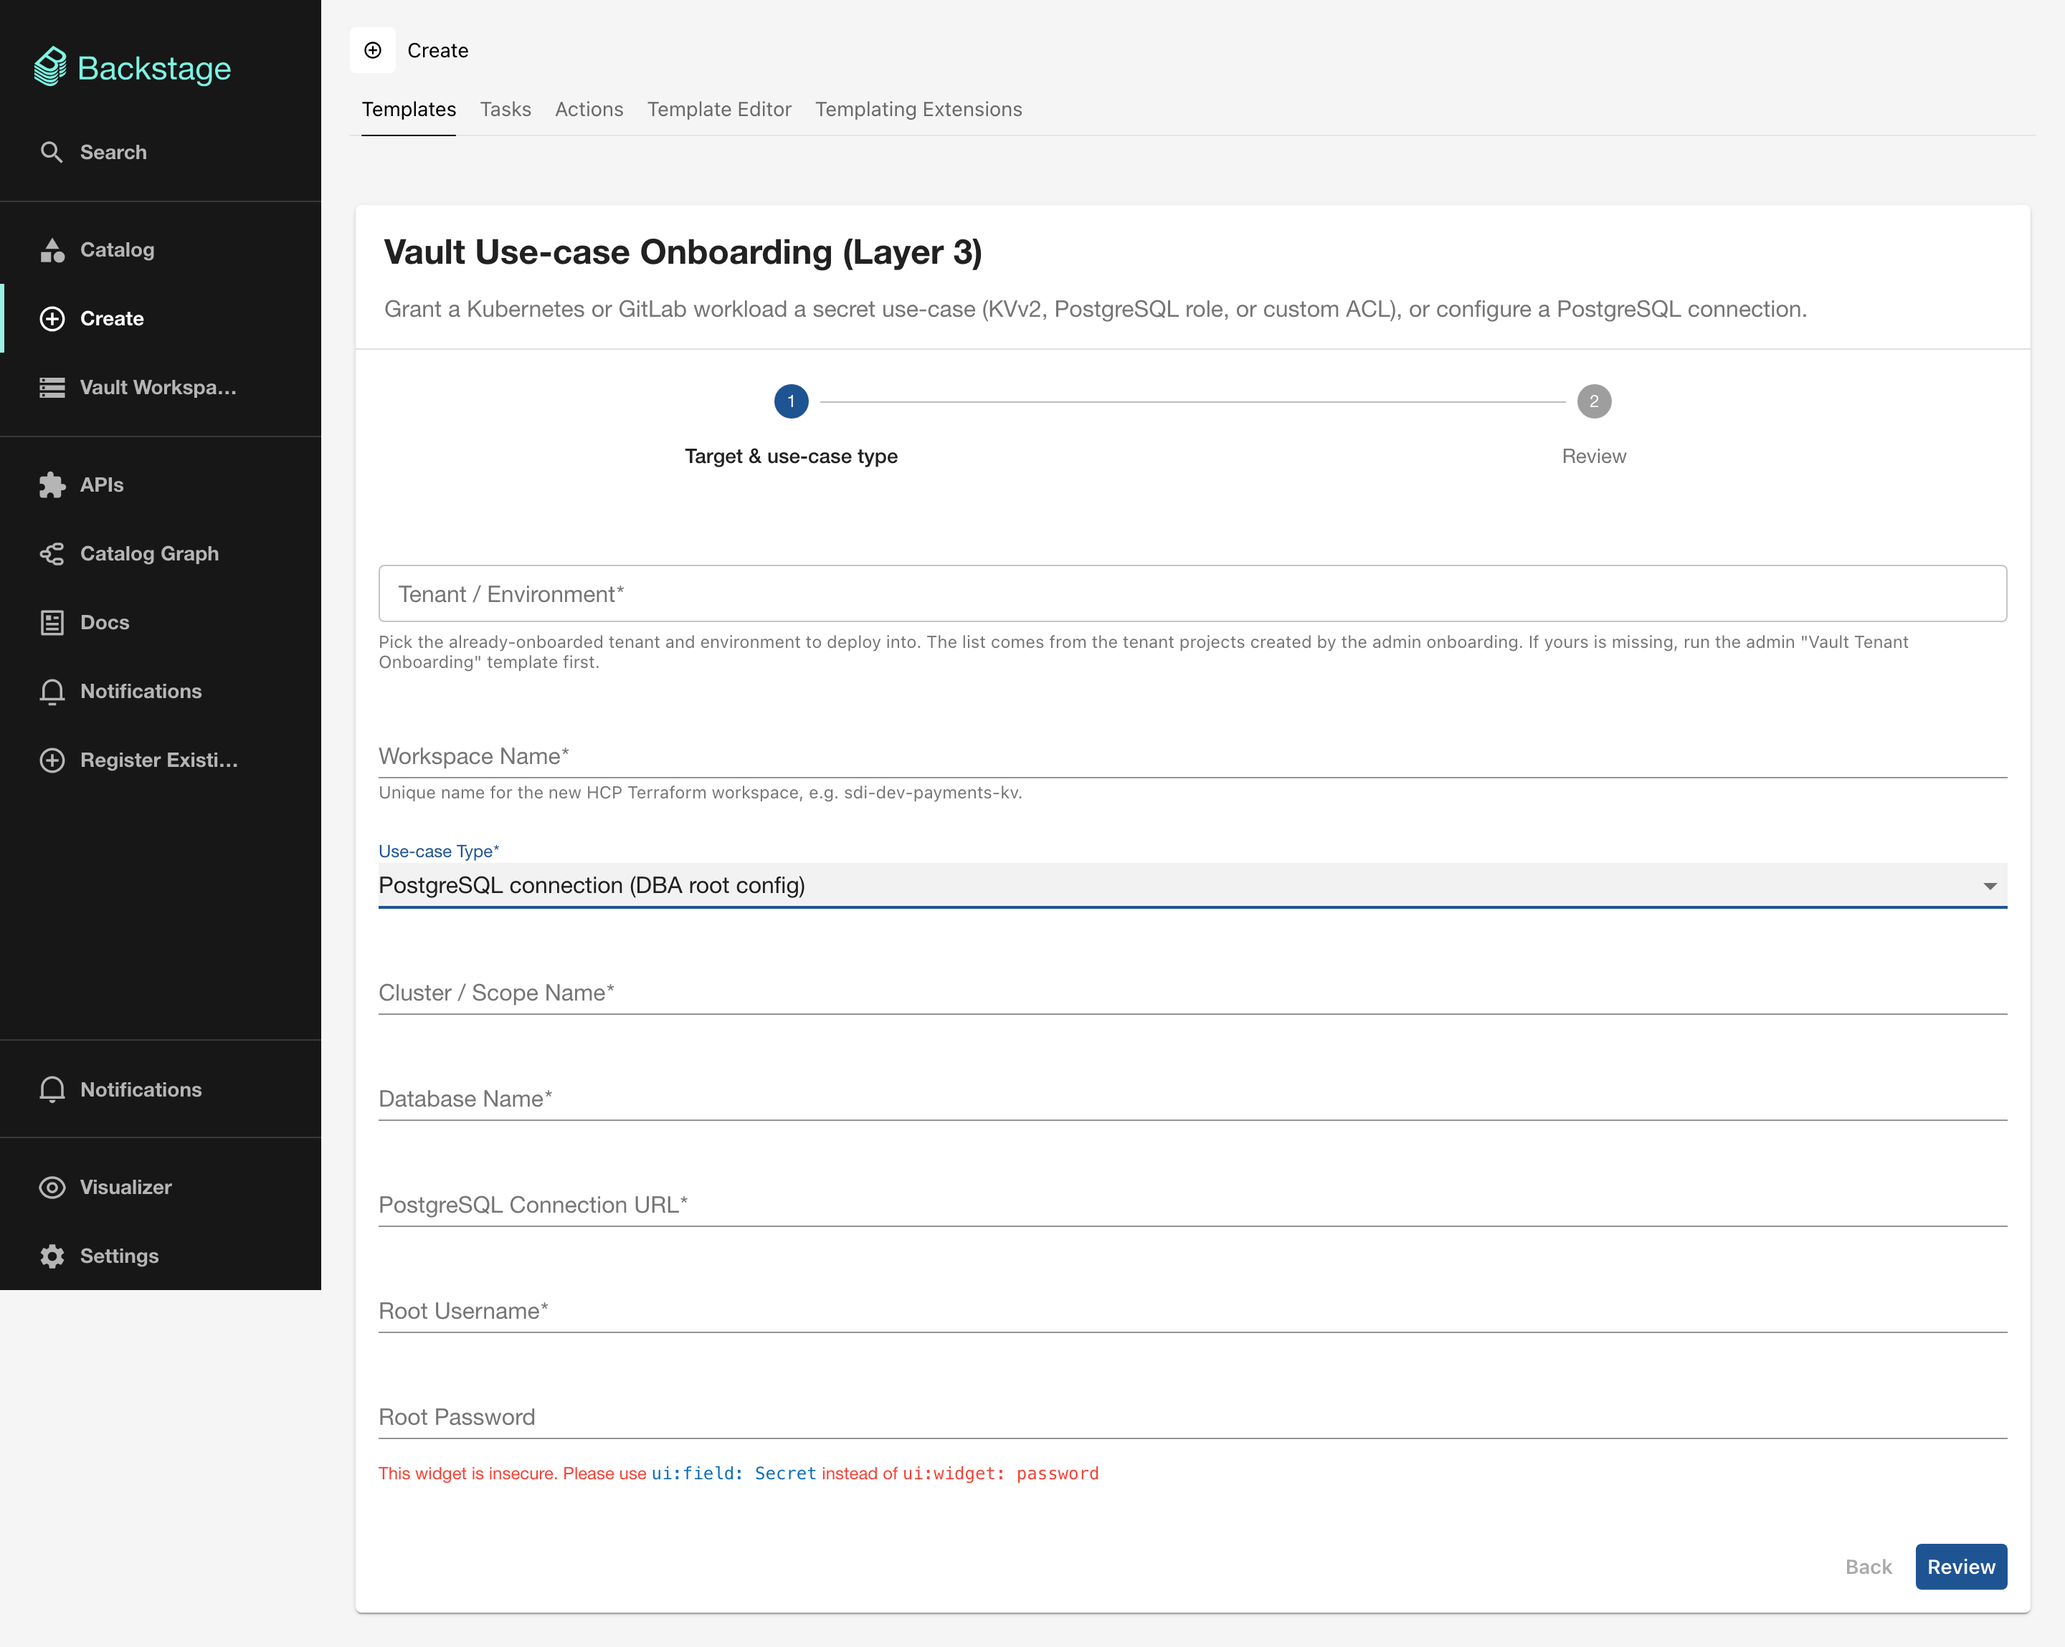
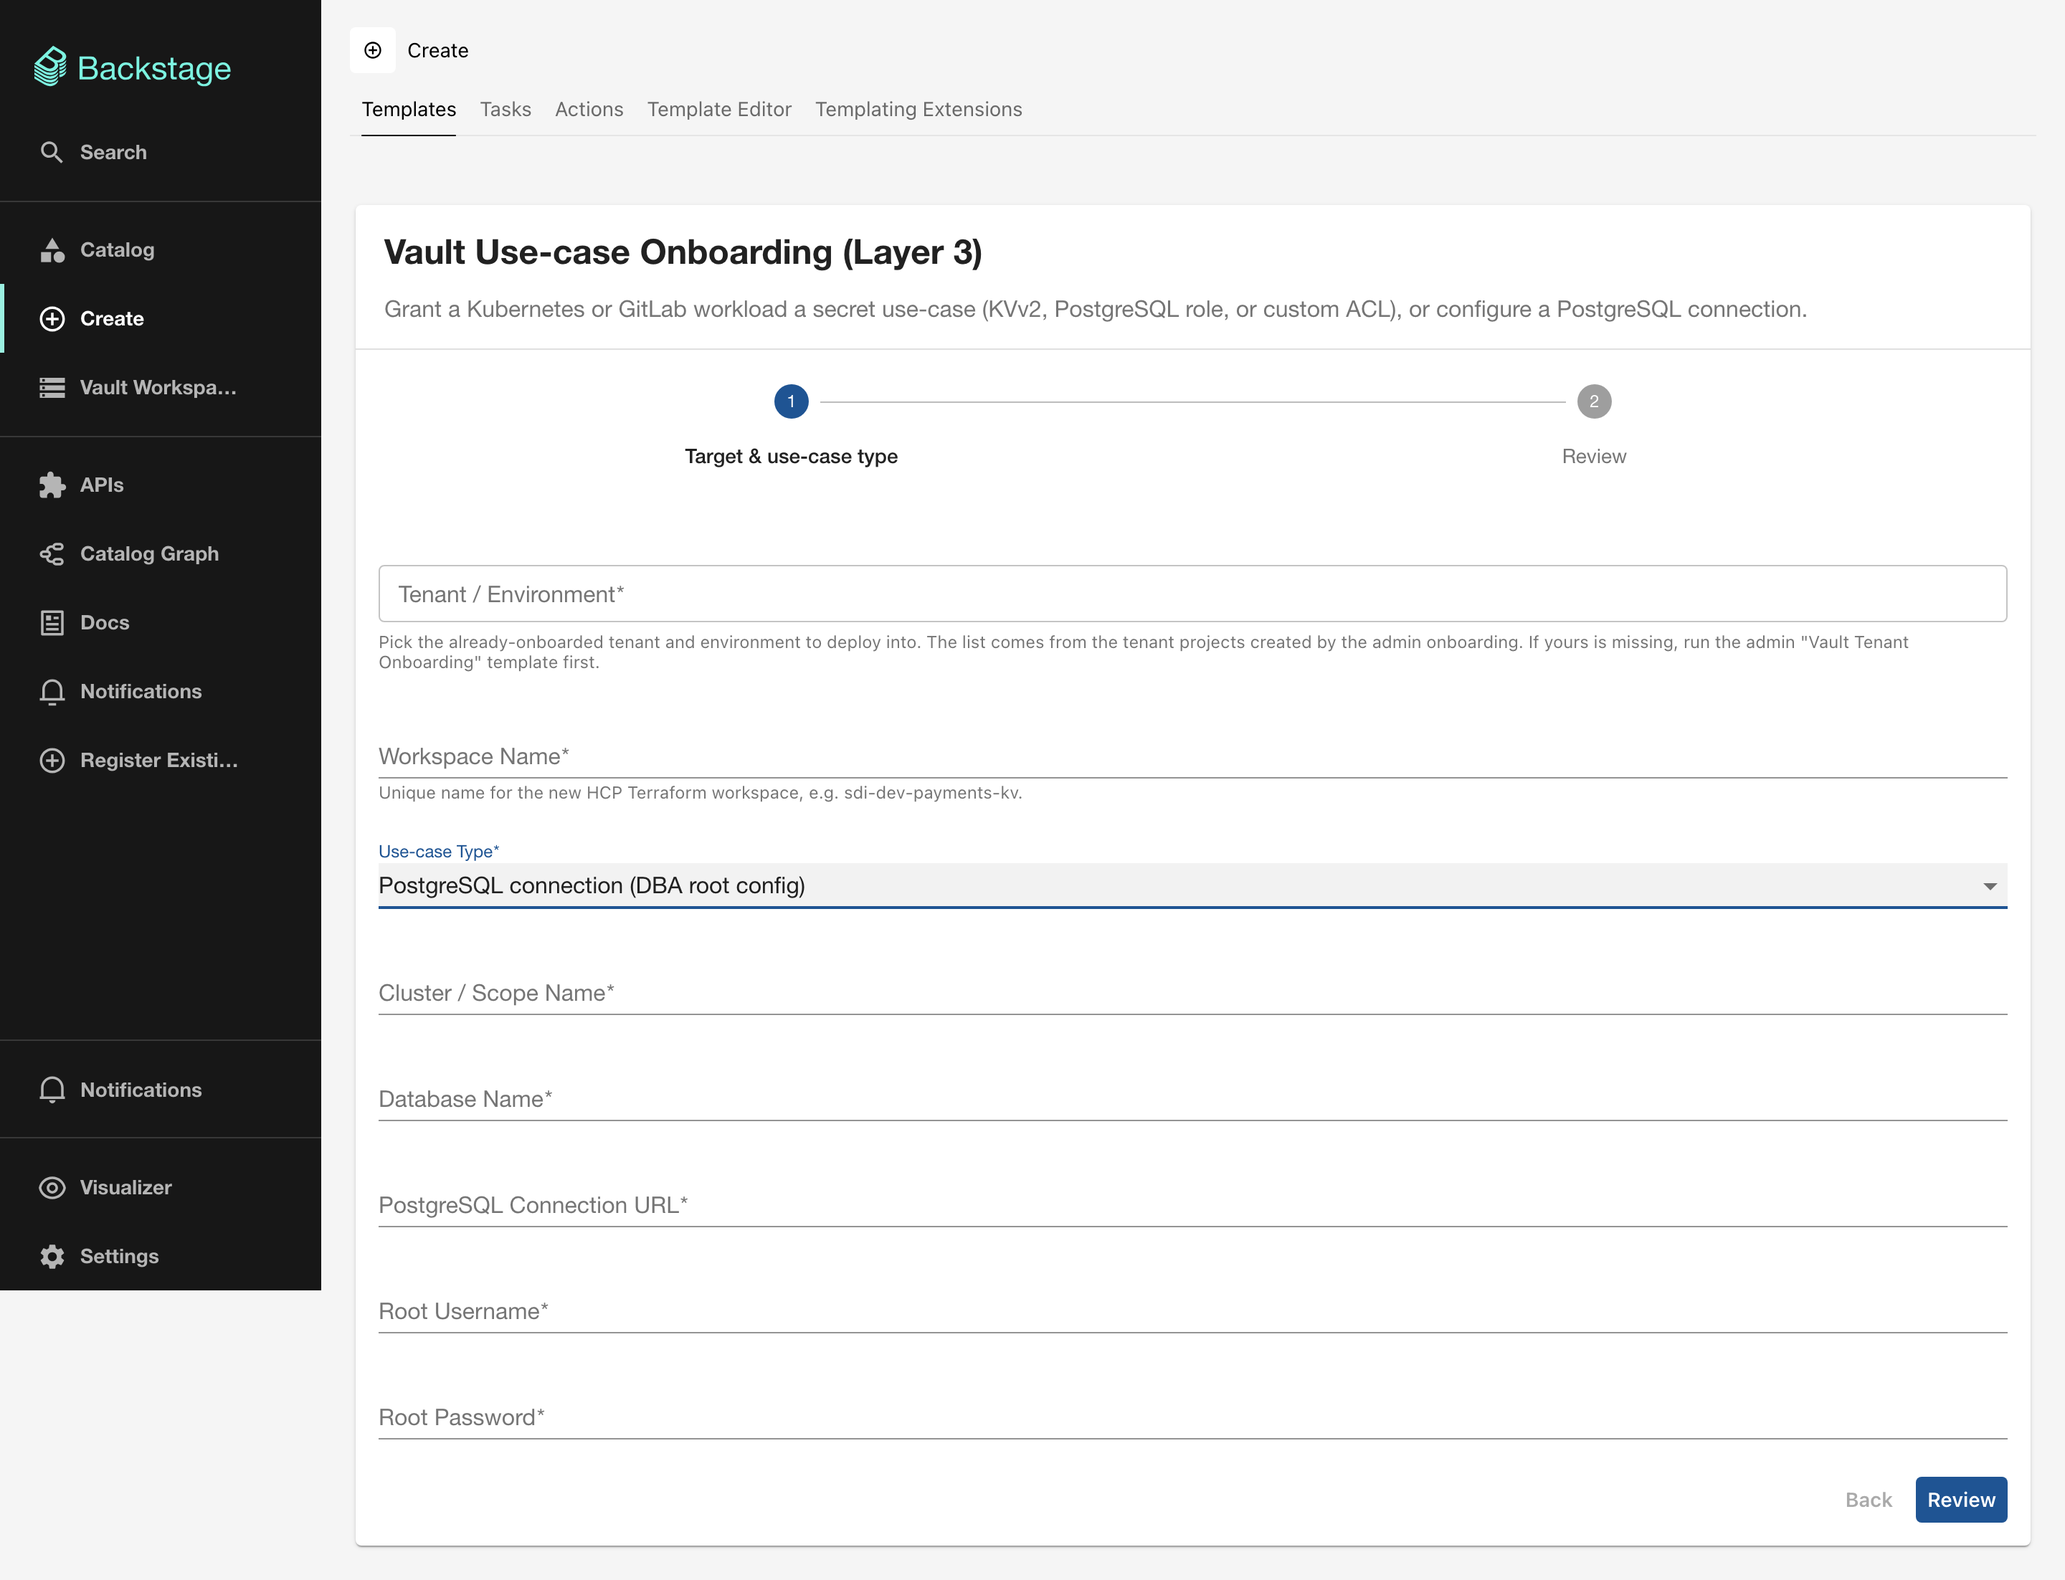
fix: review round 3 (permission-group vars, L2 scope, backfill, secrets)
- hcptf:nocode:provision accepts scalar vars. A value that is a single
  ${{ }} expression keeps its JSON type, so permission-group's capability
  checkboxes arrived as booleans and failed the z.string() input schema
  before any workspace was created. toTfVars already sends them as strings;
  covered by a new provision.test.ts.
- L2 workload template takes cluster_name / gitlab_instance_name from the
  selected parent trust's outputs instead of form fields, so the JWT mount,
  entity name and parent link can't disagree; the Kubernetes parent picker
  lists only cluster-onboarding trusts.
- Parent pickers (L2 and L3) require the output the step reads to exist, so
  never-applied workspaces are not offered.
- backfill-parent-tags: only applied parents are candidates and every link
  needs a unique match (a failed L1 retry with the same cluster_name could
  be tagged as parent before); unknown workload modules are skipped; older
  GitLab KV use-cases with a free-text scope match on a unique GitLab
  workload_name.
- PostgreSQL connection URL and root password use ui:field: Secret and are
  read from ${{ secrets.* }} (removes the insecure password-widget warning).
- Docs/AGENTS.md describe the parent-derived handoff; L2 and pgsql-connection
  screenshots recaptured; test name fixed.

diff --git a/plugins/hcp-terraform-backend/src/actions/provision.ts b/plugins/hcp-terraform-backend/src/actions/provision.ts
@@ -8,8 +8,15 @@ function needsHcl(value: string): boolean {
   );
 }
 
+/**
+ * Template values that are a single `${{ }}` expression reach the action as
+ * their JSON type (a checkbox parameter arrives as a real boolean), so vars
+ * accept scalars and are sent to HCP Terraform as strings.
+ */
+export type TfVarValue = string | number | boolean;
+
 export function toTfVars(
-  vars: Record<string, string>,
+  vars: Record<string, TfVarValue>,
   sensitive?: Record<string, boolean>,
 ): TfVar[] {
   return Object.entries(vars)
@@ -35,7 +42,7 @@ export function createProvisionAction(client: HcpTfClient) {
         tenant: z => z.string().optional().describe('Tenant name; used to resolve the {tenant}-Vault-{env} project.'),
         environment: z => z.string().optional().describe('Environment (dev/test/prod) for project resolution.'),
         projectName: z => z.string().optional().describe('Exact HCP TF project name (e.g. an admin project). Overrides tenant/env.'),
-        vars: z => z.record(z.string(), z.string()).optional().describe('Terraform variable key/value map.'),
+        vars: z => z.record(z.string(), z.union([z.string(), z.number(), z.boolean()])).optional().describe('Terraform variable key/value map (scalars are sent as strings).'),
         sensitiveVars: z => z.record(z.string(), z.boolean()).optional().describe('Keys to mark as sensitive.'),
         projectId: z => z.string().optional().describe('Explicit HCP TF project ID (overrides tenant/env resolution).'),
         parentWorkspaceName: z => z.string().optional().describe('Name of the previous-layer workspace to link this one to in the catalog graph (recorded as a parent:<name> tag).'),
@@ -101,7 +108,7 @@ export function createProvisionAction(client: HcpTfClient) {
       ctx.logger.info(`Resolved nocode module ID: ${noCodModuleId}`);
 
       const tfVars = toTfVars(
-        vars as Record<string, string>,
+        vars as Record<string, TfVarValue>,
         sensitiveVars as Record<string, boolean>,
       );
 

diff --git a/plugins/hcp-terraform-backend/src/actions/provision.test.ts b/plugins/hcp-terraform-backend/src/actions/provision.test.ts
@@ -1,0 +1,20 @@
+import { toTfVars } from './provision';
+
+describe('toTfVars', () => {
+  it('sends scalar template values as strings, with booleans and numbers as HCL', () => {
+    // A checkbox rendered by `${{ parameters.capabilityRead }}` arrives as a
+    // real boolean, not the string "true".
+    expect(
+      toTfVars({ capability_read: true, capability_sudo: false, ttl: 3600, name: 'payments' }),
+    ).toEqual([
+      { key: 'capability_read', value: 'true', category: 'terraform', hcl: true, sensitive: false },
+      { key: 'capability_sudo', value: 'false', category: 'terraform', hcl: true, sensitive: false },
+      { key: 'ttl', value: '3600', category: 'terraform', hcl: true, sensitive: false },
+      { key: 'name', value: 'payments', category: 'terraform', hcl: false, sensitive: false },
+    ]);
+  });
+
+  it('marks keys listed in sensitiveVars as sensitive', () => {
+    expect(toTfVars({ pg_password: 's3cret' }, { pg_password: true })[0].sensitive).toBe(true);
+  });
+});

diff --git a/plugins/vault-frontend/src/components/VaultLayerPicker.test.tsx b/plugins/vault-frontend/src/components/VaultLayerPicker.test.tsx
@@ -26,7 +26,7 @@ describe('VaultLayerFilter', () => {
     expect(filter.filterEntity(entity({ other: 'workload' }))).toBe(false);
   });
 
-  it('round-trips the selected values through the query string', () => {
+  it('serialises the selected values for the query string', () => {
     expect(new VaultLayerFilter(['trust', 'usecase']).toQueryValue()).toEqual([
       'trust',
       'usecase',

diff --git a/AGENTS.md b/AGENTS.md
@@ -38,9 +38,9 @@ Conventions baked into the Makefile (don't re-introduce the bugs they fix):
 - **`source-module-id` yields the SHORT registry name** (`add-kvv2`), but `MODULE_LAYER` keys are the full `terraform-vault-*` names, so `layerForModule` tries both. A short/long mismatch here silently labels every workspace `unknown` — regression-tested in `HcpTerraformWorkspaceProvider.test.ts`. The `hcptf.io/module-name` annotation is normalized to the full name via `canonicalModuleName`, because template `catalogFilter`s (the pgsql/gitlab parent pickers) match on the full `terraform-vault-*` name.
 - **Layer chaining (graph):** the provision action tags each child workspace `parent:<name>` (from the template's parent EntityPicker); the provider reads that tag and emits `spec.dependsOn` so the catalog graph shows the L1→L2→L3 chain. Only workspaces created after this change are linked (existing ones have no parent tag). Workspace resources are also enriched with `hcptf.io/tenant|environment|target` from their project (matched to a `vault-target` by project id); `hcptf.io/target` is the vault-target entity name the `VaultNextLayerCard` pre-selects when deep-linking to the next template via `?formData=`.
 - **Catalog default filter is `all`** (`catalog-filter:catalog/list` in `app-config.yaml`). With guest/dev auth the user owns nothing, so the default `owned` filter renders an empty catalog.
-- **Templates** pass a resolved `projectId` (from a `catalog:fetch` of a `vault-target` entity) plus parent handoff outputs (entity_id, auth_role_name, jwt_auth_path, …) via `EntityPicker` + `catalog:fetch`. Conditional fields use `dependencies.oneOf`; conditional steps use `if:` (`===`/`||`); output coalescing uses the nunjucks `or`.
+- **Templates** pass a resolved `projectId` (from a `catalog:fetch` of a `vault-target` entity) plus scope values read from the selected parent's `hcptf.io/output.*` annotations via `ScopedEntityPicker` + `catalog:fetch`: L2 takes `cluster_name` / `gitlab_instance_name` from the parent trust, L3 takes those plus `workload_name` from the parent workload (the modules derive auth paths, role and entity names from them). Parent pickers require the output they read (`{ exists: true }` in `catalogFilter`), so never-applied workspaces are not offered. Values that are a single `${{ }}` expression keep their JSON type (checkboxes arrive as booleans), which is why `hcptf:nocode:provision` accepts scalar `vars`. Credentials use `ui:field: Secret` and are read as `${{ secrets.<name> }}`. Conditional fields use `dependencies.oneOf`; conditional steps use `if:` (`===`/`||`); output coalescing uses the nunjucks `or`.
 - **Parent-workspace pickers use `ui:field: ScopedEntityPicker`** (custom field in `plugins/vault-frontend/src/components/ScopedEntityPicker.tsx`, registered on `pluginId: scaffolder` via `vaultScaffolderModule`). It behaves like `EntityPicker` but filters candidates to the tenant/env selected in a sibling field via `ui:options.scopeField: onboardedTarget` (matching the workspace's `hcptf.io/target` annotation), so a use-case can't be linked to a parent in a different tenant. The `onboardedTarget` picker itself stays a plain `EntityPicker` (it is the scope source). It reads siblings through `props.formContext.formData`.
-- **KV use-case is workload-type aware:** the L3 template offers `kvv2` (Kubernetes) and `kvv2-gitlab` (GitLab) use-case types; both call `terraform-vault-add-kvv2` but pass `integration_type` (`kubernetes`/`gitlab`), which selects the module's single `consumption_examples` output. The use-case modules look up the Vault entity by name `<cluster_name>-<workload_name>`, so every branch with a parent workload derives both from that workload's outputs instead of form fields: `workload_name` from `hcptf.io/output.workload_name`, and `cluster_name` from `hcptf.io/output.cluster_name` (Kubernetes) or `hcptf.io/output.gitlab_instance_name` (GitLab). `kvv2` and `pgsql-role` accept only Kubernetes parents (pgsql role names are prefixed with the cluster and its YAML is K8s-only); `permission-group` accepts either. The GitLab branch also skips the K8s-only fields.
+- **KV use-case is workload-type aware:** the L3 template offers `kvv2` (Kubernetes) and `kvv2-gitlab` (GitLab) use-case types; both call `terraform-vault-add-kvv2` but pass `integration_type` (`kubernetes`/`gitlab`), which selects the module's single `consumption_examples` output. The use-case modules look up the Vault entity by name `<cluster_name>-<workload_name>`, so every branch with a parent workload derives both from that workload's outputs instead of form fields: `workload_name` from `hcptf.io/output.workload_name`, and `cluster_name` from `hcptf.io/output.cluster_name` (Kubernetes) or `hcptf.io/output.gitlab_instance_name` (GitLab). `kvv2` and `pgsql-role` accept only Kubernetes parents (pgsql role names are prefixed with the cluster and its YAML is K8s-only); `permission-group` accepts either.
 - **`hcptf:nocode:provision` waits for the run** (`waitForRun`) and fails the step on run failure — a 201 on workspace create is not success.
 - **The destroy action (`hcptf:run:create`) is opt-in** (`hcpTerraform.actions.enableDestroy`, default false) and has no per-owner check; gate destruction to the owner before wiring it into a template.
 

diff --git a/pages/cards/usecase-onboarding.md b/pages/cards/usecase-onboarding.md
@@ -24,7 +24,7 @@ Five use-case types are supported:
 | **Workspace Name** | Yes | `string` | Unique HCP Terraform workspace name, such as `sdi-dev-payments-kv`. |
 | **Use-case Type** | Yes | `enum` | Selects which use-case to provision (see table above). |
 
-The use-case modules find the Vault identity entity by the name `<cluster>-<workload>`, so every use-case backed by a parent workload takes the cluster (or GitLab instance) name and the workload name from that parent's outputs. There are no form fields for them, which keeps them from drifting out of sync with L1/L2.
+The use-case modules find the Vault identity entity by the name `<cluster>-<workload>`, so every use-case backed by a parent workload takes the cluster (or GitLab instance) name and the workload name from that parent's outputs. There are no form fields for them, which keeps them from drifting out of sync with L1/L2. The parent pickers list only workspaces that have been applied, because an unapplied workspace has no outputs to read.
 
 ### KV v2 (Kubernetes workload)
 
@@ -80,9 +80,9 @@ The use-case modules find the Vault identity entity by the name `<cluster>-<work
 |-------|----------|------|-------------|
 | **Cluster / Scope Name** | Yes | `string` | Scope identifier. |
 | **Database Name** | Yes | `string` | Database identifier. |
-| **PostgreSQL Connection URL** | Yes | `string` | Connection string for the database. |
+| **PostgreSQL Connection URL** | Yes | Secret | Connection string for the database. Kept out of the task's parameters and sent to HCP Terraform as a sensitive variable. |
 | **Root Username** | Yes | `string` | Database admin username. |
-| **Root Password** | Yes | `password` | Database admin password (masked in UI). |
+| **Root Password** | Yes | Secret | Database admin password. Kept out of the task's parameters and sent to HCP Terraform as a sensitive variable. |
 
 !!! warning "Sensitive inputs"
     The PostgreSQL connection URL and root password are marked as sensitive variables in HCP Terraform and are never stored in Backstage or the catalog.

diff --git a/pages/cards/workload-onboarding.md b/pages/cards/workload-onboarding.md
@@ -35,10 +35,9 @@ The following fields appear when you set Workload Type to **Kubernetes / OpenShi
 
 | Field | Required | Type | Description |
 |-------|----------|------|-------------|
-| **Cluster Name** | Yes | `string` | Must match the `cluster_name` from the L1 trust onboarding. |
 | **OCP / K8s Namespace** | Yes | `string` | The namespace the ServiceAccount runs in. |
 | **ServiceAccount Name** | Yes | `string` | Name of the Kubernetes ServiceAccount to bind. |
-| **Parent Trust Workspace** | Yes | Scoped Entity Picker | The L1 cluster trust workspace providing `jwt_auth_path` and `jwt_mount_accessor`. Scoped to the selected tenant. |
+| **Parent Trust Workspace** | Yes | Scoped Entity Picker | The applied L1 cluster trust workspace. Supplies the cluster name, which scopes the JWT mount and the Vault entity name. Scoped to the selected tenant. |
 
 ### GitLab-specific fields
 
@@ -48,10 +47,9 @@ The following fields appear when you set Workload Type to **GitLab project**.
 
 | Field | Required | Type | Description |
 |-------|----------|------|-------------|
-| **GitLab Instance** | Yes | `enum` | `cloud`, `dedicated-prod`, or `dedicated-dev`. Must match the L1 GitLab trust. |
 | **GitLab Project ID** | Yes | `string` | Numeric project ID (Settings > General > Project ID in GitLab). |
 | **GitLab Project Path** | Yes | `string` | Full path, such as `platform/payments-api`. |
-| **Parent GitLab Trust Workspace** | Yes | Scoped Entity Picker | The L1 GitLab trust workspace. Scoped to the selected tenant. |
+| **Parent GitLab Trust Workspace** | Yes | Scoped Entity Picker | The applied L1 GitLab trust workspace. Supplies the GitLab instance, which scopes the JWT mount and the Vault entity name. Scoped to the selected tenant. |
 
 ## Output
 
